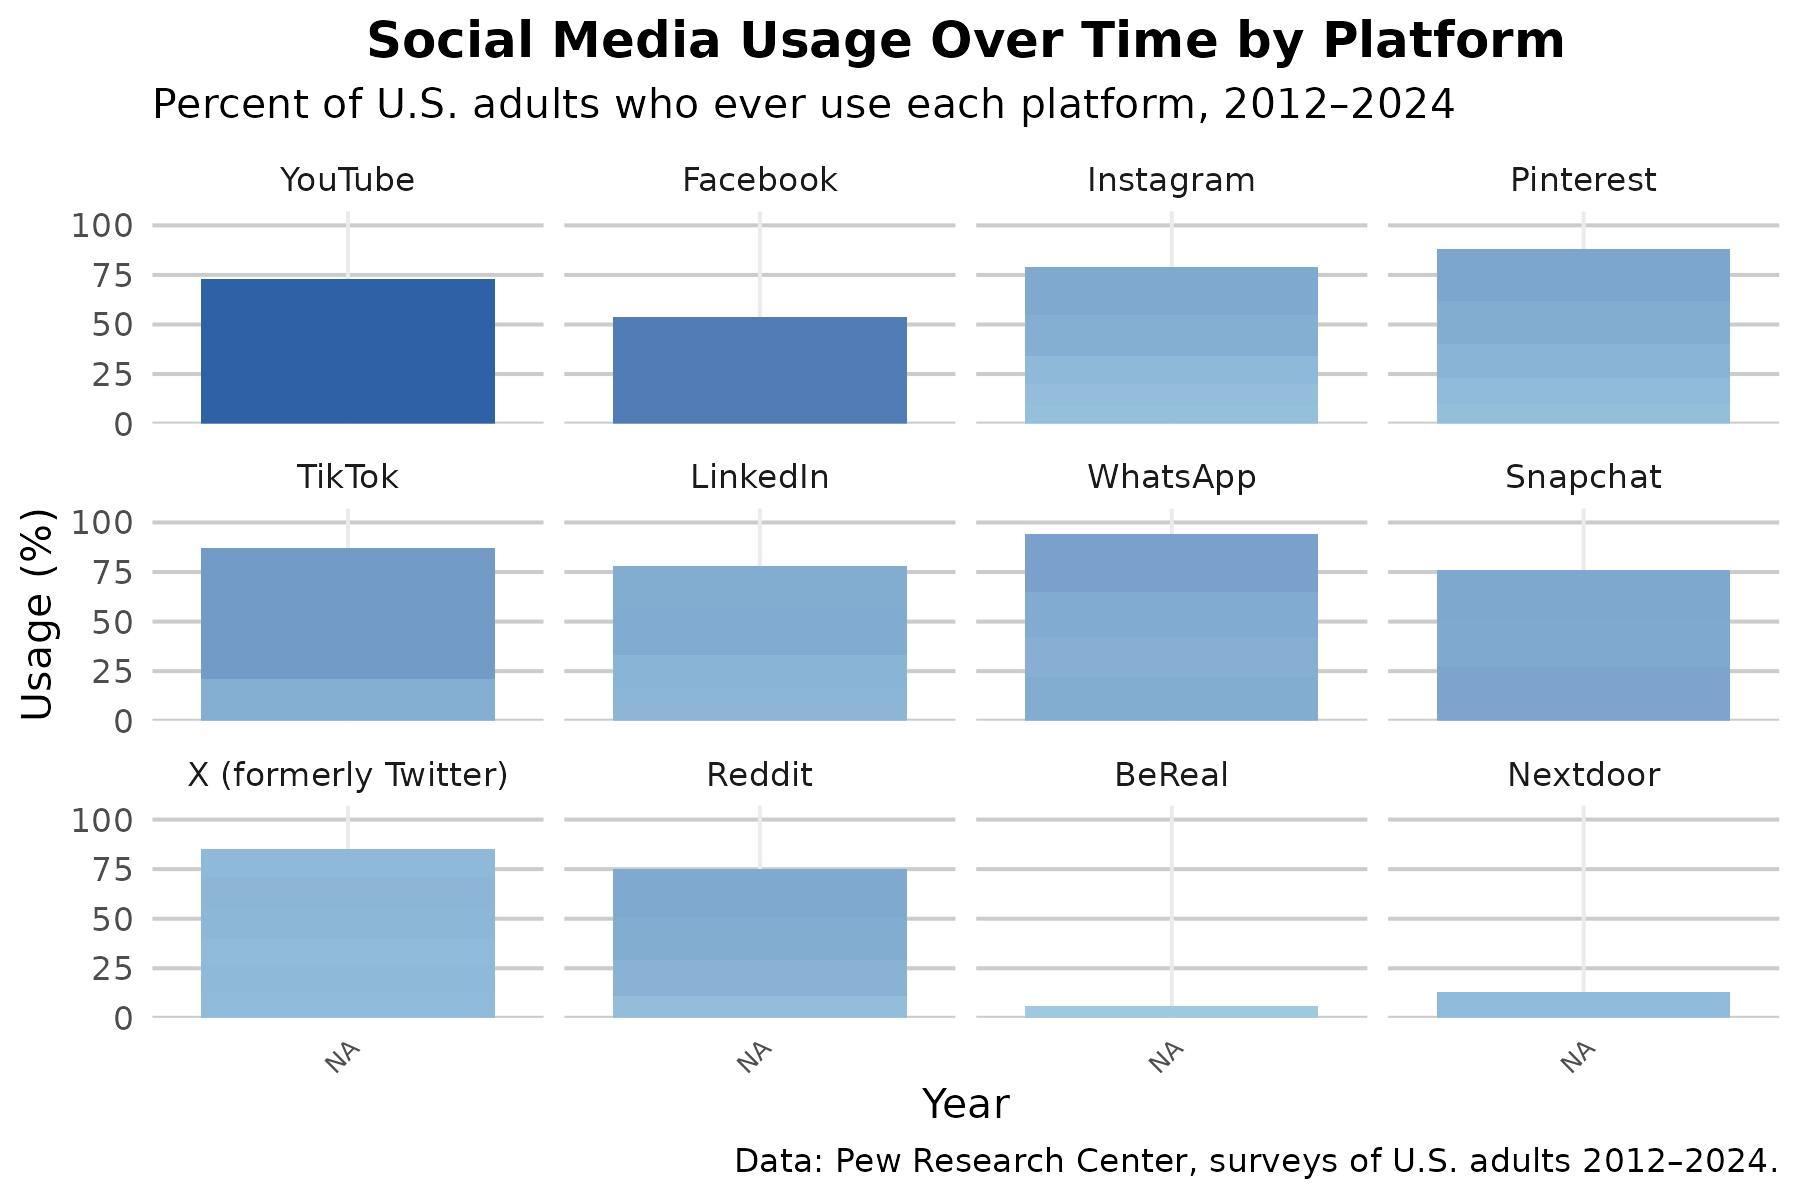
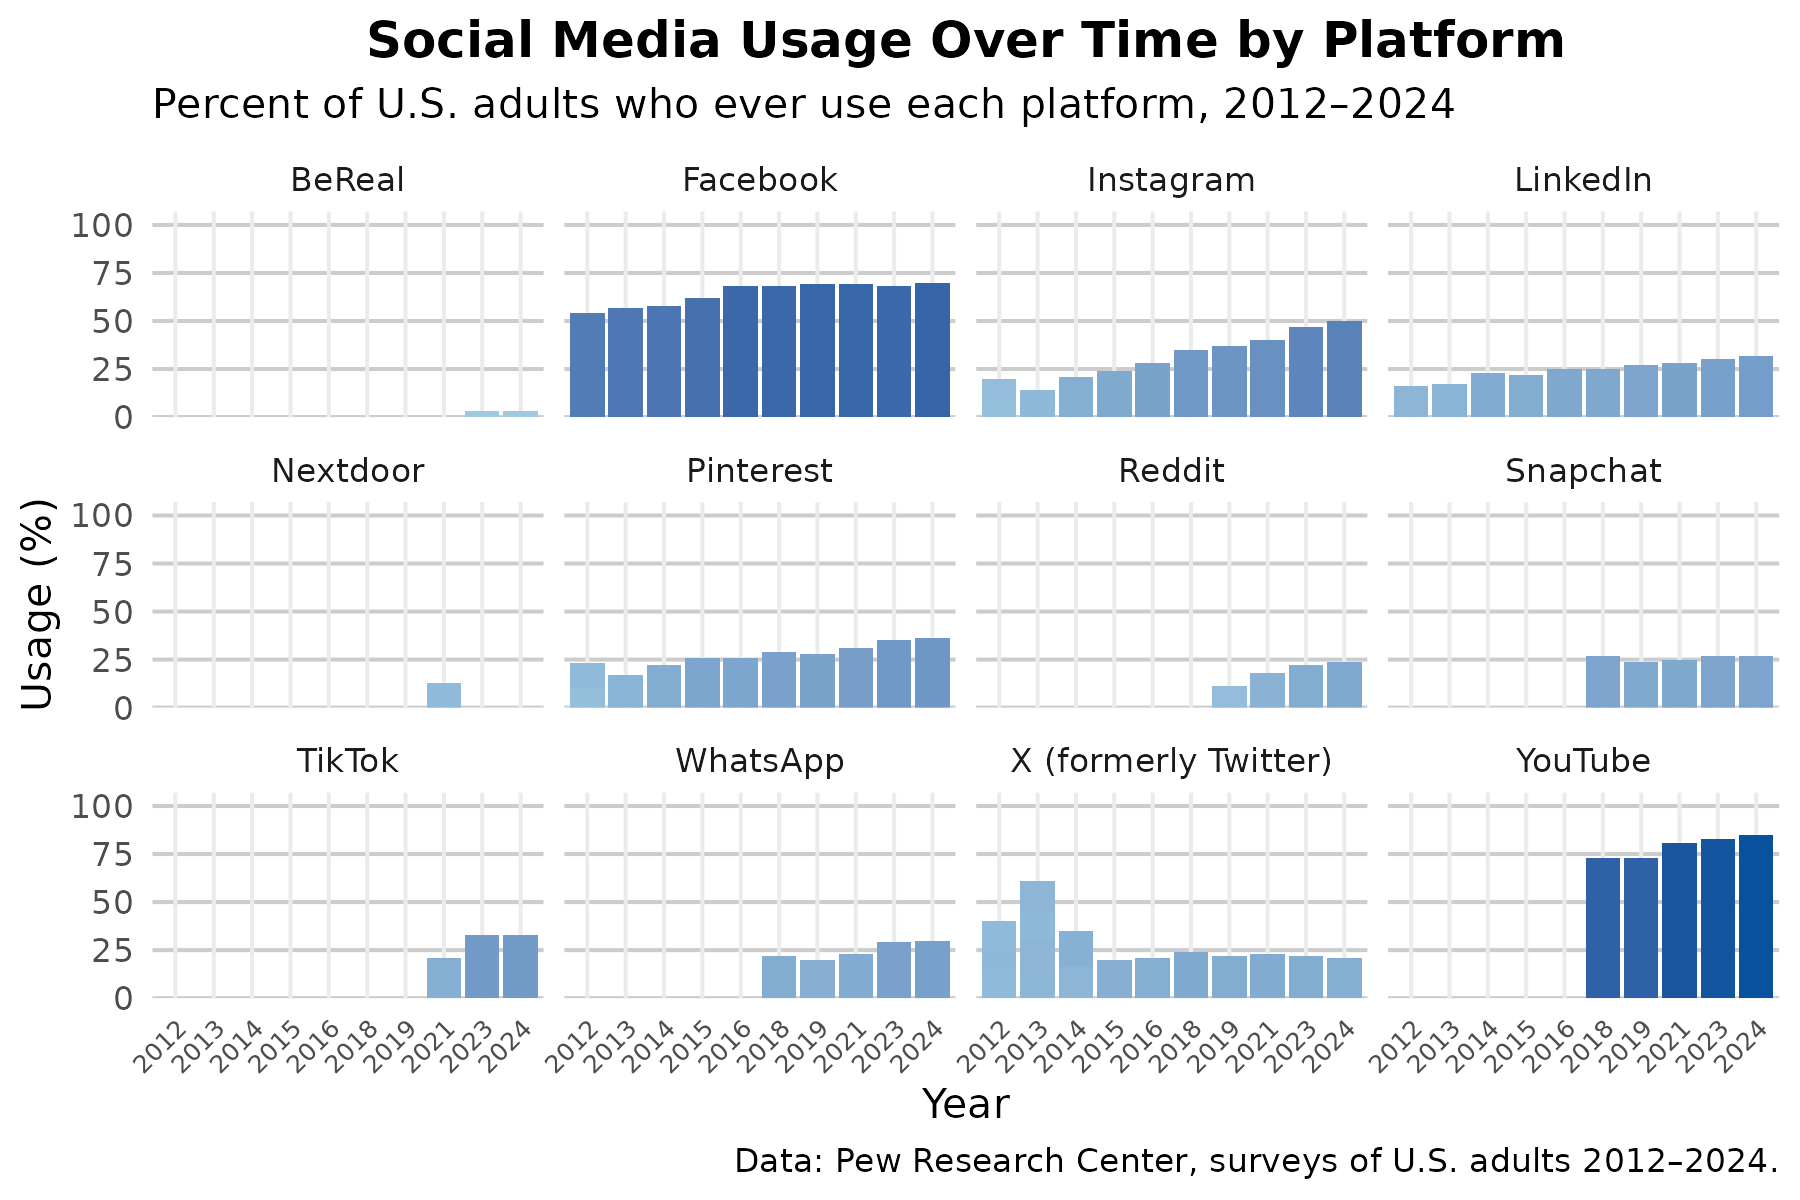
fixed visualisation

Changed region(s): [[0.0, 0.1233, 0.9956, 0.8942], [0.1556, 0.1233, 0.2178, 0.1542]]

diff --git a/memo/memo.md b/memo/memo.md
@@ -1,64 +1,282 @@
 Project memo
 ================
-Team name
-
-This document should contain a detailed account of the data clean up for
-your data and the design choices you are making for your plots. For
-instance you will want to document choices you’ve made that were
-intentional for your graphic, e.g. color you’ve chosen for the plot.
-Think of this document as a code script someone can follow to reproduce
-the data cleaning steps and graphics in your handout.
+ADA
 
 ``` r
 library(tidyverse)
 library(broom)
+library(skimr)
 ```
 
 ## Data Clean Up Steps for Overall Data
 
-### Step 1: \_\_\_\_\_\_\_\_\_
+### Step 1: Cleaning both data sets
 
-### Step 2: \_\_\_\_\_\_\_\_
+``` r
+# Code goes here
+# Read in your data file
+setwd("/cloud/project/proposal")
+library(readr)
+social <- read_csv("../data/which_social_media_platforms_are_most_popular_data_2024-11-13.csv", skip = 2, n_max = 17)
+```
+
+    ## Rows: 17 Columns: 13
+    ## ── Column specification ────────────────────────────────────────────────────────
+    ## Delimiter: ","
+    ## chr (13): Year, YouTube, Facebook, Instagram, Pinterest, TikTok, LinkedIn, W...
+    ## 
+    ## ℹ Use `spec()` to retrieve the full column specification for this data.
+    ## ℹ Specify the column types or set `show_col_types = FALSE` to quiet this message.
+
+``` r
+demographic <- read_csv("../data/social_media_usage_among_demographic_groups - Sheet1 (1).csv", skip = 1)
+```
+
+    ## Rows: 6 Columns: 12
+    ## ── Column specification ────────────────────────────────────────────────────────
+    ## Delimiter: ","
+    ## chr (12): Group, Youtube, Facebook, Instagram, Pinterest, TikTok, LinkedIn, ...
+    ## 
+    ## ℹ Use `spec()` to retrieve the full column specification for this data.
+    ## ℹ Specify the column types or set `show_col_types = FALSE` to quiet this message.
+
+``` r
+demographic_clean <- demographic %>%
+  # ensure Group is character 
+  mutate(Group = as.character(Group)) %>%
+  
+  # convert only columns that actually contain "%" into numeric
+  mutate(across(
+    .cols = where(~ any(grepl("%", .x, fixed = TRUE), na.rm = TRUE)),
+    .fns  = ~ as.numeric(gsub("%", "", .x))
+  )) %>%
+  
+  # create gender and race columns
+  mutate(
+    gender = case_when(
+      Group %in% c("Men", "Women") ~ Group,
+      TRUE ~ NA_character_
+    ),
+    race = case_when(
+      Group %in% c("White", "Black", "Hispanic", "Asian") ~ Group,
+      TRUE ~ NA_character_
+    )
+  ) %>%
+  
+  # reshape to long format
+  pivot_longer(
+    cols = -c(Group, gender, race),
+    names_to  = "platform",
+    values_to = "percent"
+  ) %>%
+  filter(!is.na(platform)) 
+```
+
+``` r
+social_clean <- social %>%
+  mutate(across(where(is.character), 
+                ~ as.numeric(ifelse(is.na(.), NA, gsub("%", "", .))))) %>%
+  
+  # Keep year column, rename if needed
+  rename(date = Year) %>%
+  
+  # Reshape to long format
+  pivot_longer(
+    cols = -date,
+    names_to = "platform",
+    values_to = "percent"
+  ) %>%
+  mutate(year = lubridate::year(lubridate::mdy(date)))
+```
+
+    ## Warning: There was 1 warning in `mutate()`.
+    ## ℹ In argument: `across(...)`.
+    ## Caused by warning:
+    ## ! NAs introduced by coercion
+
+### Step 2: Visualization for presentation on 11/13
 
 ## Plots
 
-### ggsave example for saving plots
+### Plot 1: Platform Usage by Race
 
 ``` r
-p1 <- starwars |>
-  filter(mass < 1000, 
-         species %in% c("Human", "Cerean", "Pau'an", "Droid", "Gungan")) |>
-  ggplot() +
-  geom_point(aes(x = mass, 
-                 y = height, 
-                 color = species)) +
-  labs(x = "Weight (kg)", 
-       y = "Height (m)",
-       color = "Species",
-       title = "Weight and Height of Select Starwars Species",
-       caption = paste("This data comes from the starwars api: https://swapi.py43.com"))
+cb_palette <- c(
+  "Asian" = "#0072B2",
+  "Black" = "#E69F00",
+  "Hispanic" = "#009E73",
+  "White" = "#D55E00",
+  "Other" = "#CC79A7"
+)
 
+ggplot(demographic_clean %>% filter(!is.na(race)),
+       aes(x = race, y = percent, fill = race)) +
+  
+  geom_bar(stat = "identity", position = position_dodge(width = 0.9)) +
 
-ggsave("example-starwars.png", width = 4, height = 4)
+  geom_text(
+    aes(label = percent),
+    position = position_dodge(width = 0.9),
+    vjust = -0.3,
+    size = 1.8
+  ) +
+  
+  labs(
+    title = "Social Media Usage by Platform and Race",
+    subtitle = "Data obtained through a survey of 5,022 adults across the US",
+    caption = paste("This data comes from Pew Research Center: https://www.pewresearch.org/internet/2025/11/20/americans-social-media-use-2025/"), 
+    x = "Race",
+    y = "Usage (%)"
+  ) +
+  
+  scale_fill_manual(values = cb_palette) +
+  
+  facet_wrap(~ platform, nrow = 3) +
+  
+  scale_y_continuous(
+    limits = c(0, 100),
+    expand = expansion(mult = c(0, 0.07))
+  ) +
+  
+  theme_minimal(base_size = 10) +
+  theme(
+    axis.text.y = element_blank(),
+    axis.ticks.y = element_blank(),
+    
+    panel.grid.major.y = element_line(color = "gray80"),
+    panel.grid.minor = element_blank(),
+    
+    axis.text.x = element_text(size = 7, angle = 45, hjust = 1),
 
-ggsave("example-starwars-wide.png", width = 6, height = 4)
+    plot.title = element_text(face = "bold", size = 12, hjust = 0.5),
+    plot.subtitle = element_text(size = 8, hjust = 0.5, margin = margin(b = 8)), 
+    plot.caption = element_text(size = 6, hjust = 0.5, margin = margin(b = 8)),
+
+    legend.position = "none"
+  )
 ```
 
-### Plot 1: \_\_\_\_\_\_\_\_\_
-
-#### Data cleanup steps specific to plot 1
+<img src="memo_files/figure-gfm/platform-usage-by-race-1.png" alt="Faceted bar chart showing social media usage by platform and race. Each facet represents a platform, the x-axis shows racial groups, the y-axis shows usage percentages, bars are colored by race, and labels on each bar show exact percentages. The purpose is to compare differences in platform engagement across racial groups among U.S. adults."  />
 
 ``` r
-# This section is optional and depends on if you have some data cleaning steps specific to a particular plot
+ggsave("platform-by-race.png", width = 4, height = 4)
 ```
 
-#### Final Plot 1
+### Plot 2: Platform Usage by Gender
 
-### Plot 2: \_\_\_\_\_\_\_\_\_
+``` r
+# compute female usage for each platform 
+female_usage <- demographic_clean %>%
+  filter(gender == "Women") %>%
+  select(platform, female_percent = percent)
 
-### Plot 3: \_\_\_\_\_\_\_\_\_\_\_
+# join back + reorder platform factor by female usage 
+demographic_sorted <- demographic_clean %>%
+  left_join(female_usage, by = "platform") %>%
+  mutate(platform = reorder(platform, female_percent))
 
-Add more plot sections as needed. Each project should have at least 3
-plots, but talk to me if you have fewer than 3.
+ggplot(demographic_sorted %>% filter(!is.na(gender)),
+       aes(x = gender, y = percent, fill = gender)) +
+  geom_bar(stat = "identity", position = position_dodge(width = 0.9)) +
+  geom_text(
+    aes(label = percent),
+    position = position_dodge(width = 0.9),
+    vjust = -0.3,
+    size = 2.5
+  ) +
+  scale_fill_manual(values = c("Men" = "#0072B2", "Women" = "#CC79A7")) +
+  scale_y_continuous(
+    breaks = c(0, 25, 50, 75, 100),
+    limits = c(0, 100),
+    expand = expansion(mult = c(0, 0.05))
+  ) +
+  labs(
+    title = "Social Media Usage by Platform and Gender",
+    subtitle = "Data obtained through a survey of 5,022 adults across the US",
+    caption = paste("This data comes from Pew Research Center: https://www.pewresearch.org/internet/2025/11/20/americans-social-media-use-2025/"), 
+    x = "Gender",
+    y = "Usage (%)"
+  ) +
+  facet_wrap(~ platform, nrow = 3) +
+  theme_minimal(base_size = 10) +
+  theme(
+    axis.text.y = element_blank(),
+    axis.ticks.y = element_blank(),
+    panel.border = element_blank(),
+    panel.grid.major.y = element_line(color = "gray80"),
+    panel.grid.minor = element_blank(),
+    axis.text.x = element_text(size = 8),
+    plot.title = element_text(face = "bold", size = 15, hjust = 0.5),
+    plot.subtitle = element_text(size = 8, hjust = 0.5, margin = margin(b = 8)),
+    plot.caption = element_text(size = 6, hjust = 0.5, margin = margin(b = 8)),
+    legend.position = "none"
+  )
+```
+
+<img src="memo_files/figure-gfm/platform-usage-by-gender-1.png" alt="Faceted bar chart showing social media usage by platform and gender. Each facet represents a platform, the x-axis shows men and women, the y-axis shows usage percentages, bars are colored by gender, and labels above each bar display exact usage values. The chart highlights differences in how men and women use social media platforms across adults in the United States."  />
+
+``` r
+ggsave("platform-by-gender-facet.png", width = 4, height = 4)
+```
+
+### Plot 3: Platform Usage by Year
+
+``` r
+platform_order <- c(
+  "YouTube", "Facebook", "Instagram", "Pinterest", "TikTok",
+  "LinkedIn", "WhatsApp", "Snapchat",
+  "X (formerly Twitter)", "Reddit", "BeReal", "Nextdoor"
+)
+
+social_clean <- social %>%
+  mutate(across(!Year,
+                ~ as.numeric(ifelse(is.na(.), NA, gsub("%", "", .))))) %>%
+  rename(date = Year) %>%
+  pivot_longer(
+    cols = -date,
+    names_to  = "platform",
+    values_to = "percent"
+  ) %>%
+  mutate(year = lubridate::year(lubridate::mdy(date)))
+
+ggplot(social_clean, aes(x = factor(year), y = percent, fill = percent)) +
+  geom_bar(stat = "identity") +
+  facet_wrap(~ platform, nrow = 3) +
+  scale_y_continuous(
+    limits = c(0, 100),
+    expand = expansion(mult = c(0, 0.07))
+  ) +
+  labs(
+    title = "Social Media Usage Over Time by Platform",
+    subtitle = "Percent of U.S. adults who ever use each platform, 2012–2024",
+    x = "Year",
+    y = "Usage (%)",
+    caption = "Data: Pew Research Center, surveys of U.S. adults 2012–2024."
+  ) +
+  scale_fill_gradient(
+    low  = "#9ecae1",
+    high = "#08519c"
+  ) +
+  theme_minimal(base_size = 10) +
+  theme(
+    legend.position = "none",
+    axis.text.x = element_text(size = 6, angle = 45, hjust = 1),
+    panel.grid.minor = element_blank(),
+    panel.grid.major.y = element_line(color = "gray80"),
+    plot.title = element_text(face = "bold", size = 12, hjust = 0.5)
+  )
+```
+
+    ## Warning: Removed 121 rows containing missing values or values outside the scale range
+    ## (`geom_bar()`).
+
+<img src="memo_files/figure-gfm/platform-usage-by-year-1.png" alt="Faceted bar chart showing social media usage over time by platform. Each facet represents a platform, the x-axis shows survey year, the y-axis shows usage percentages, and bars are colored by platform."  />
+
+``` r
+ggsave("platform-by-year-barchart.png", width = 6, height = 4)
+```
+
+    ## Warning: Removed 121 rows containing missing values or values outside the scale range
+    ## (`geom_bar()`).
 
 ### Plot 4: \_\_\_\_\_\_\_\_\_\_\_
